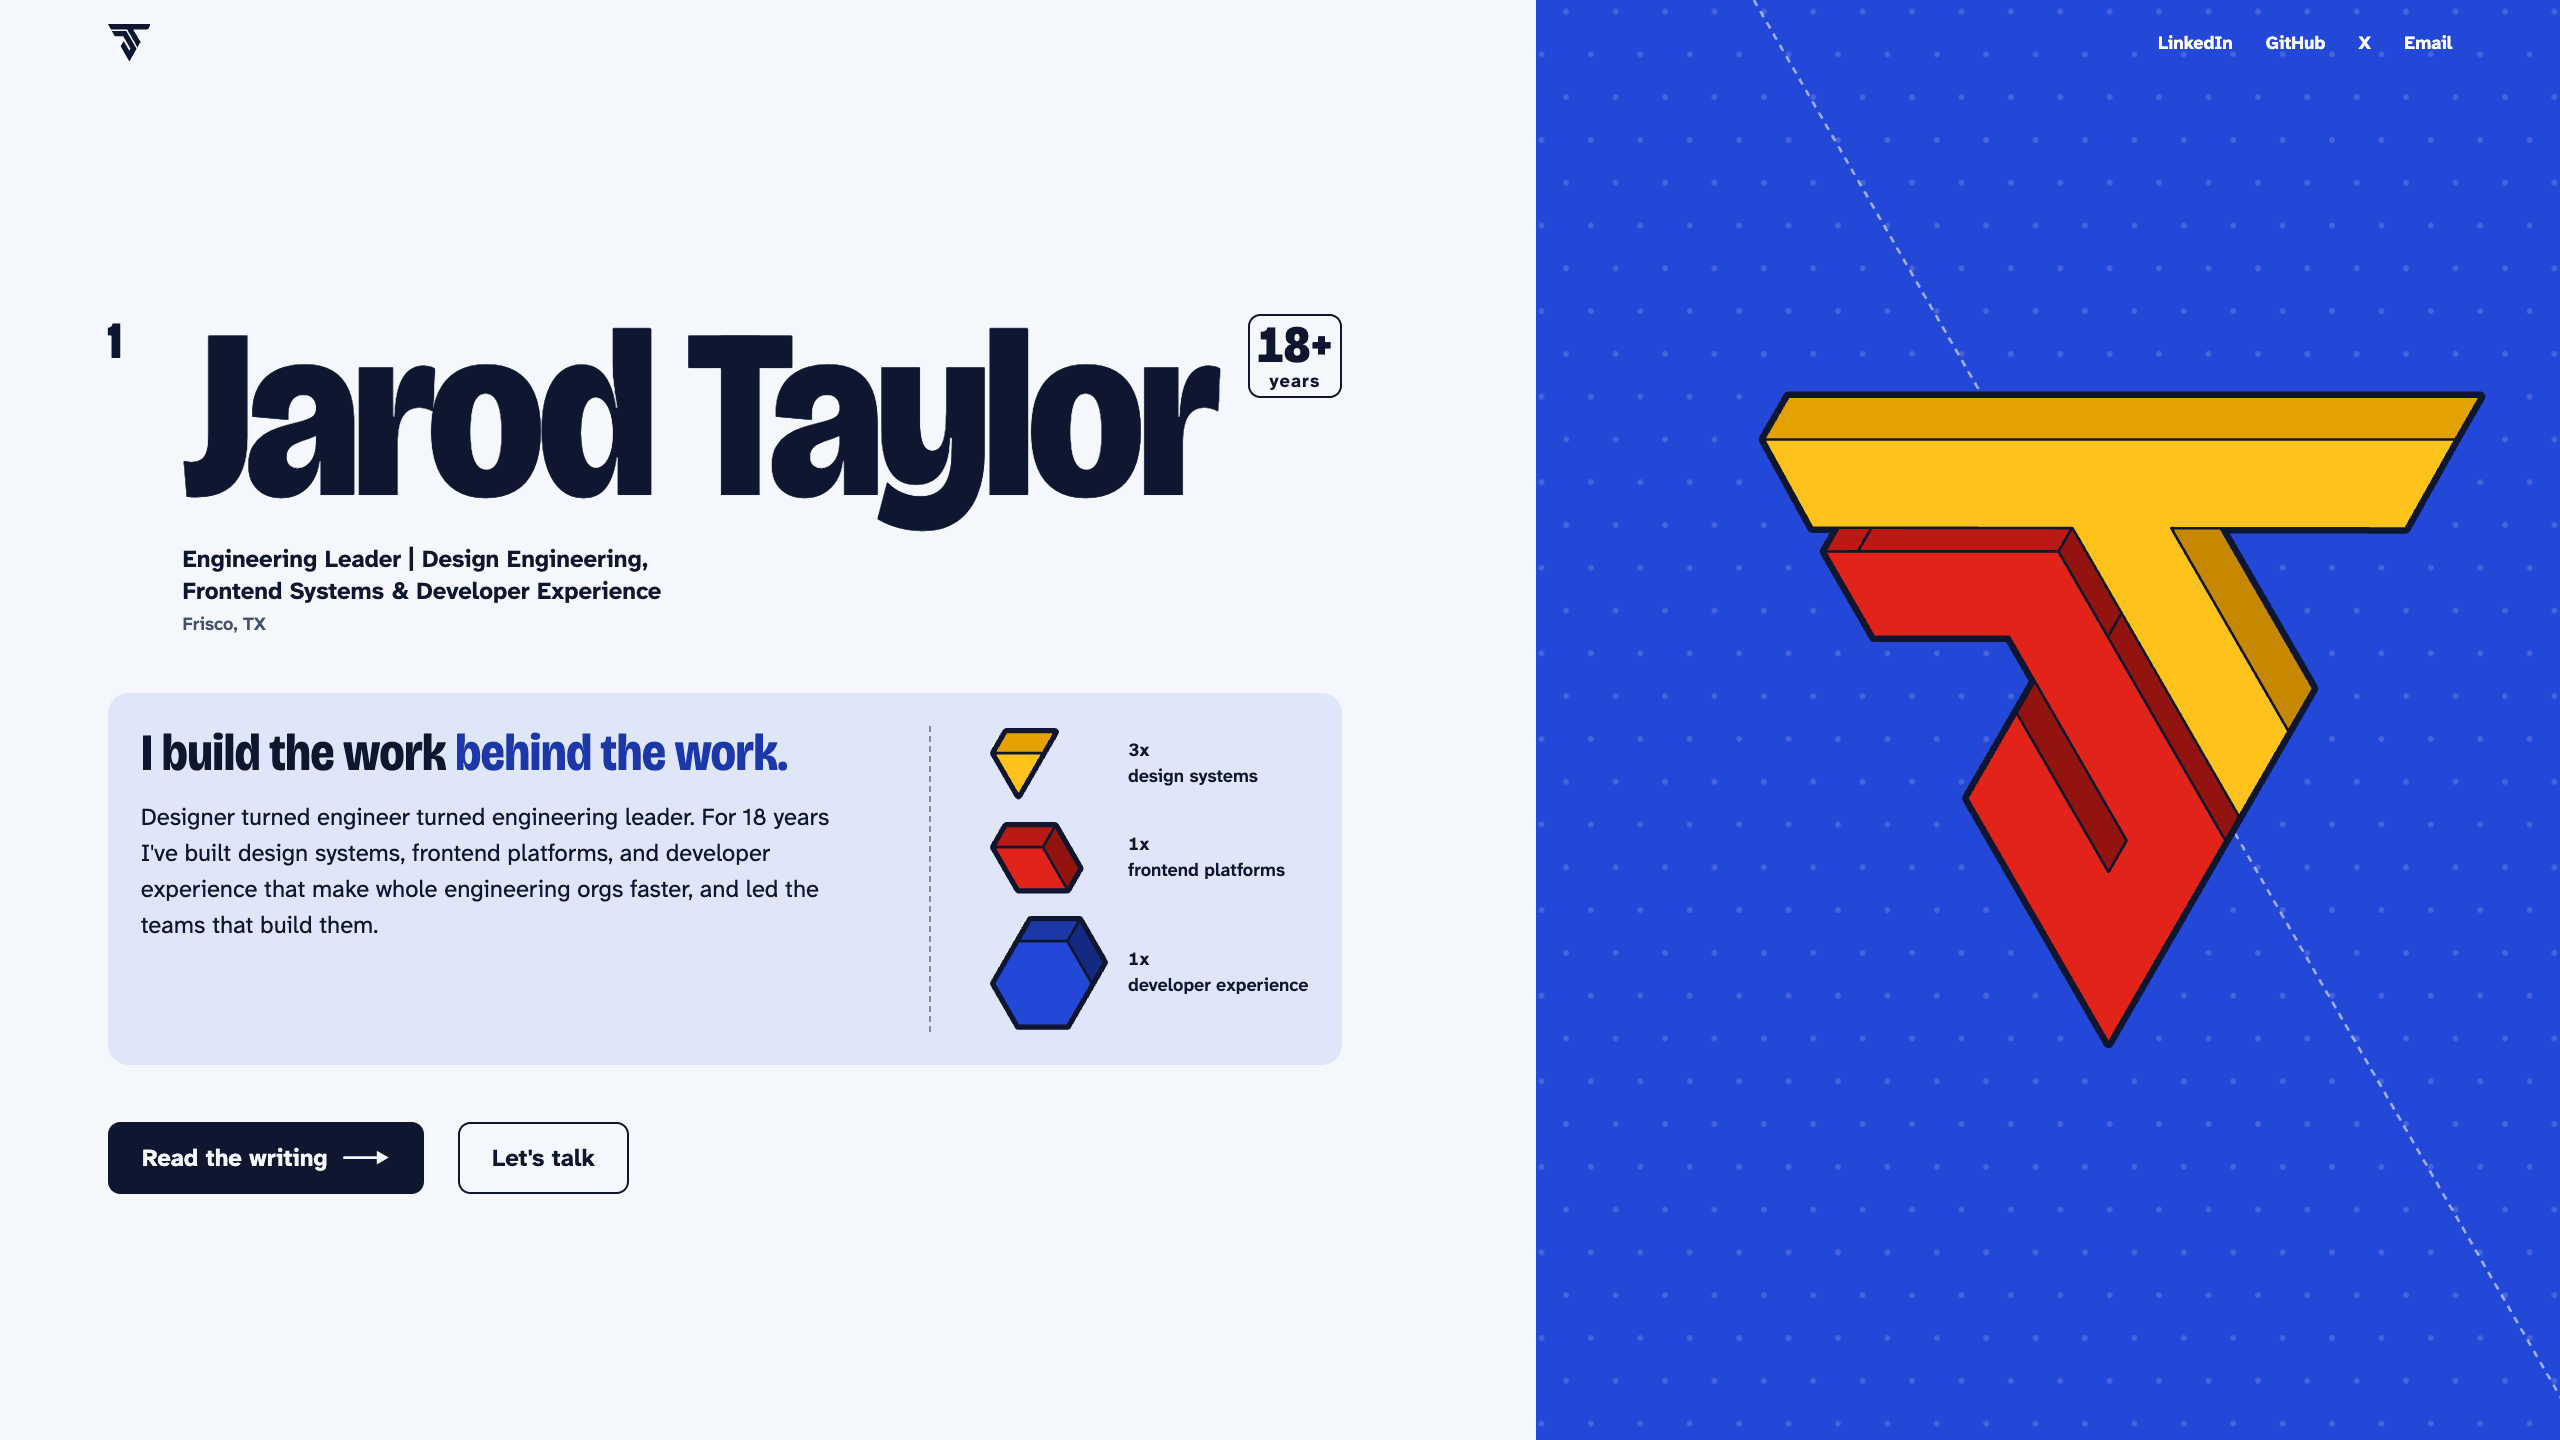
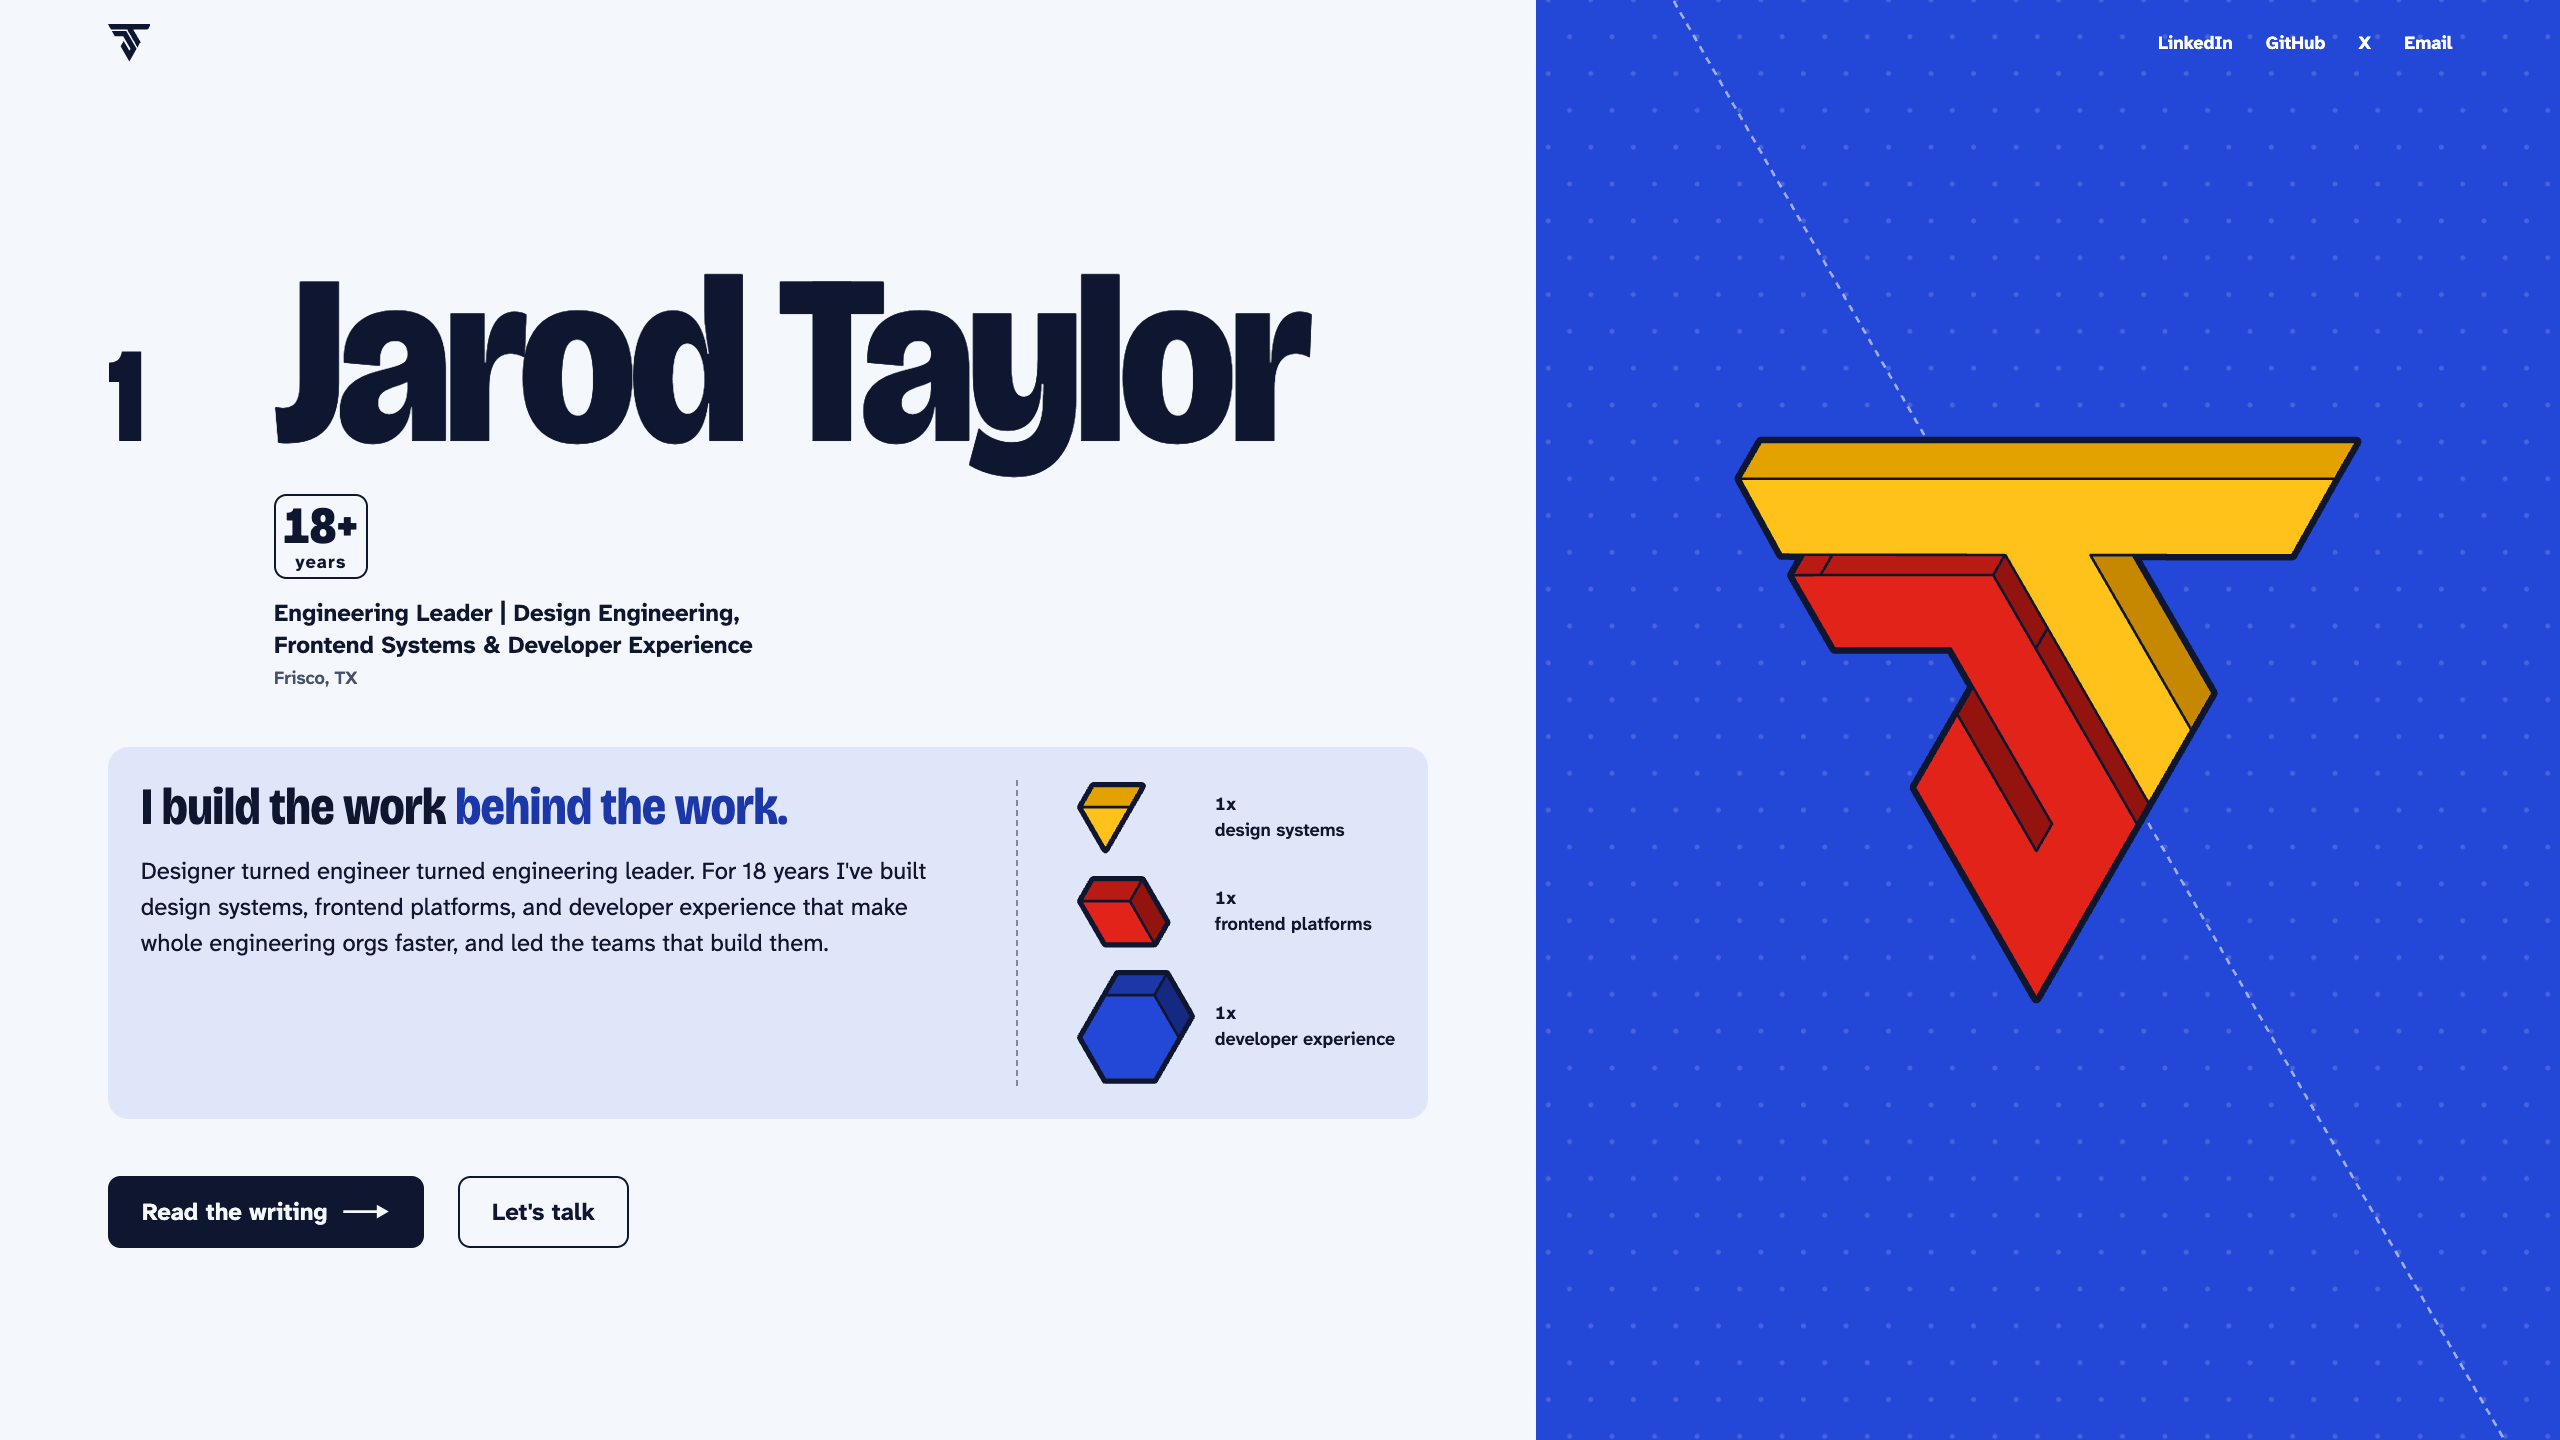
Assembly hero: booklet-scale step numeral, 1x counts, mark centred at rest

diff --git a/prototypes/assembly/styles.css b/prototypes/assembly/styles.css
@@ -48,6 +48,7 @@
   --font-text: "Atkinson Hyperlegible Next", "Helvetica Neue", sans-serif;
   --type-display: min(9.4vw, 17svh);
   --type-display-min: 4.25rem;
+  --type-step: calc(max(var(--type-display-min), var(--type-display)) * 0.56);   /* the display face, set at the name's x-height */
   --type-lead: clamp(1.625rem, 0.9rem + 1.45vw, 3.5rem);
   --type-body: clamp(1.0625rem, 0.72rem + 0.5vw, 1.5rem);
   --type-label: clamp(0.875rem, 0.66rem + 0.3vw, 1.1875rem);
@@ -163,18 +164,17 @@ ul { padding: 0; list-style: none; }
 
 /* The step numeral hangs beside the set title, the way a booklet numbers its steps. */
 .step-number {
-  align-self: start;
-  padding-block-start: 0.1em;
+  align-self: baseline;
   min-inline-size: 1.1em;
   font-family: var(--font-display);
-  font-size: var(--type-lead);
+  font-size: var(--type-step);
   font-weight: 800;
-  font-variation-settings: "wdth" 85, "opsz" 96;
-  line-height: 1;
-  margin-block-start: 0.05em;
+  font-variation-settings: "wdth" 88, "opsz" 96;
+  line-height: var(--leading-display);
+  letter-spacing: var(--tracking-display);
 }
 
-.set-title { display: flex; flex-wrap: wrap; align-items: flex-start; gap: var(--space-s) var(--space-m); }
+.set-title { align-self: baseline; display: flex; flex-wrap: wrap; align-items: flex-start; gap: var(--space-s) var(--space-m); }
 
 .name {
   font-family: var(--font-display);
@@ -227,7 +227,7 @@ ul { padding: 0; list-style: none; }
 
 .build {
   position: absolute; inset-block-start: 50%; inset-inline-start: 50%;
-  inline-size: min(94cqw, 96cqh * 767 / 1013);
+  inline-size: min(94cqw, 96cqh * 891 / 1013.4);
   block-size: auto;
   overflow: visible;
   translate: -50% -50%;
@@ -377,7 +377,7 @@ ul { padding: 0; list-style: none; }
   .set { padding-block: calc(var(--header-h) + var(--space-m)) 0; }
   .callout { margin-block: var(--space-l); }
   .field { block-size: auto; min-block-size: 100%; }
-  .build { inline-size: min(90cqw, 88cqh * 767 / 1013); }
+  .build { inline-size: min(90cqw, 88cqh * 891 / 1013.4); }
 
   .masthead { grid-template-columns: minmax(0, 1fr) var(--field-share); padding-inline: 0; }
   .masthead-mark { margin-inline-start: var(--gutter); }

diff --git a/prototypes/assembly/index.html b/prototypes/assembly/index.html
@@ -19,8 +19,8 @@
     })();
   </script>
   <link rel="preload" href="fonts/bricolage-grotesque-latin.woff2" as="font" type="font/woff2" crossorigin>
-  <link rel="stylesheet" href="styles.css?v=3">
-  <script src="hero.js?v=3" defer></script>
+  <link rel="stylesheet" href="styles.css?v=4">
+  <script src="hero.js?v=4" defer></script>
 </head>
 <body>
   <a class="skip-link" href="#main">Skip to content</a>
@@ -63,11 +63,12 @@
          jt-logo-icon.svg pushed back half a lattice edge (41.12) along the lattice's 300° axis, so the part is seen from
          above, the way it sits on a table. A heavier contour (an ink underlay) outlines each part's silhouette.
          Drawing order is the hidden-line removal: contours, then side faces of both parts, then both fronts.
-         The viewBox is the exploded and resting extent together, so both parts start wholly in the field.
+         The viewBox covers the exploded extent and is symmetric about the assembled mark's centre (298.1, 233.3),
+         so both parts start wholly in the field and the mark rests centred.
          The parts slide together along the 60° rail they share (the J's right edge, the T's diagonal),
          three lattice edges of travel (246.72), and lock where the two tips meet. -->
     <figure class="field">
-      <svg class="build" viewBox="-147 -273 767 1013" role="img" aria-labelledby="build-title">
+      <svg class="build" viewBox="-147.4 -273.4 891 1013.4" role="img" aria-labelledby="build-title">
         <title id="build-title">The JT monogram, built from two parts that lock together</title>
         <defs>
           <pattern id="lattice" width="41.12" height="71.22" patternUnits="userSpaceOnUse">
@@ -160,7 +161,7 @@
             <path class="face face-h" d="M0 0L82.24 0L102.8 -35.61L20.56 -35.61Z" />
             <path class="face face-front" d="M0 0L82.24 0L41.12 71.22Z" />
           </svg>
-          <span class="part-count">3x</span>
+          <span class="part-count">1x</span>
           <span class="part-name">design systems</span>
         </li>
         <li class="part-item">
